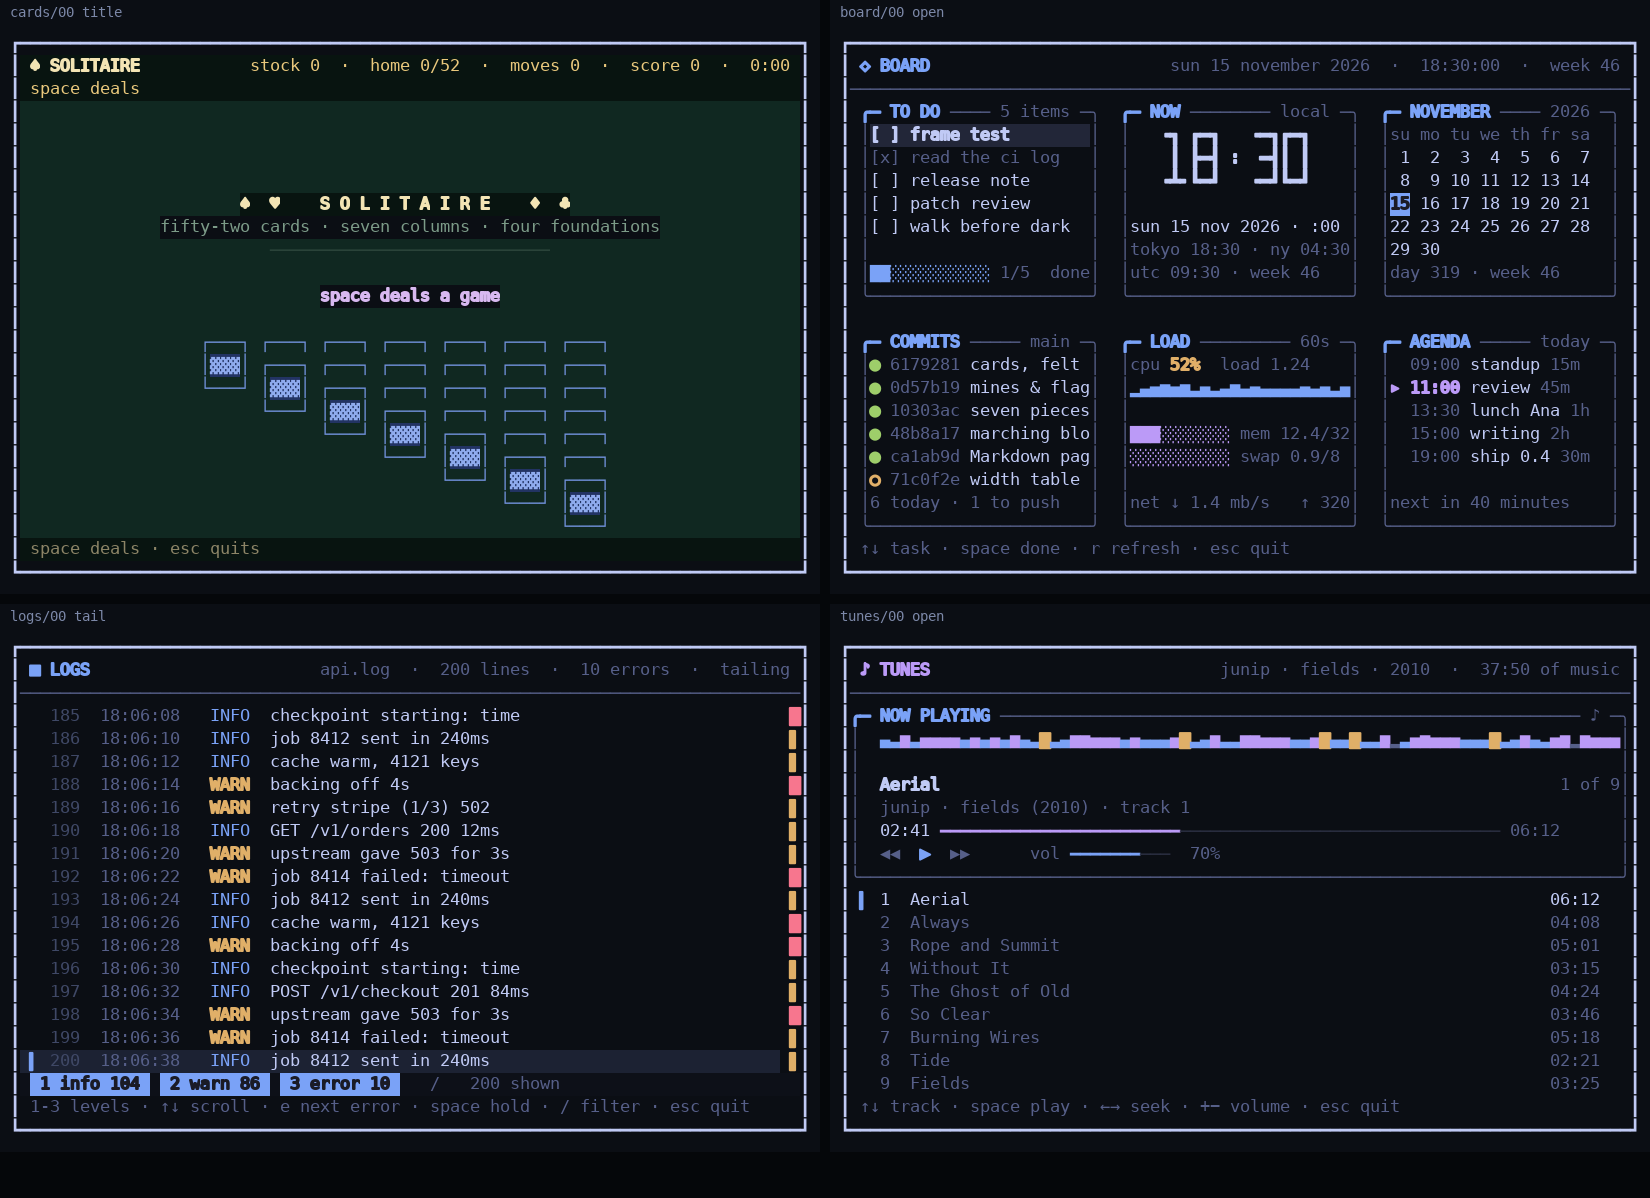
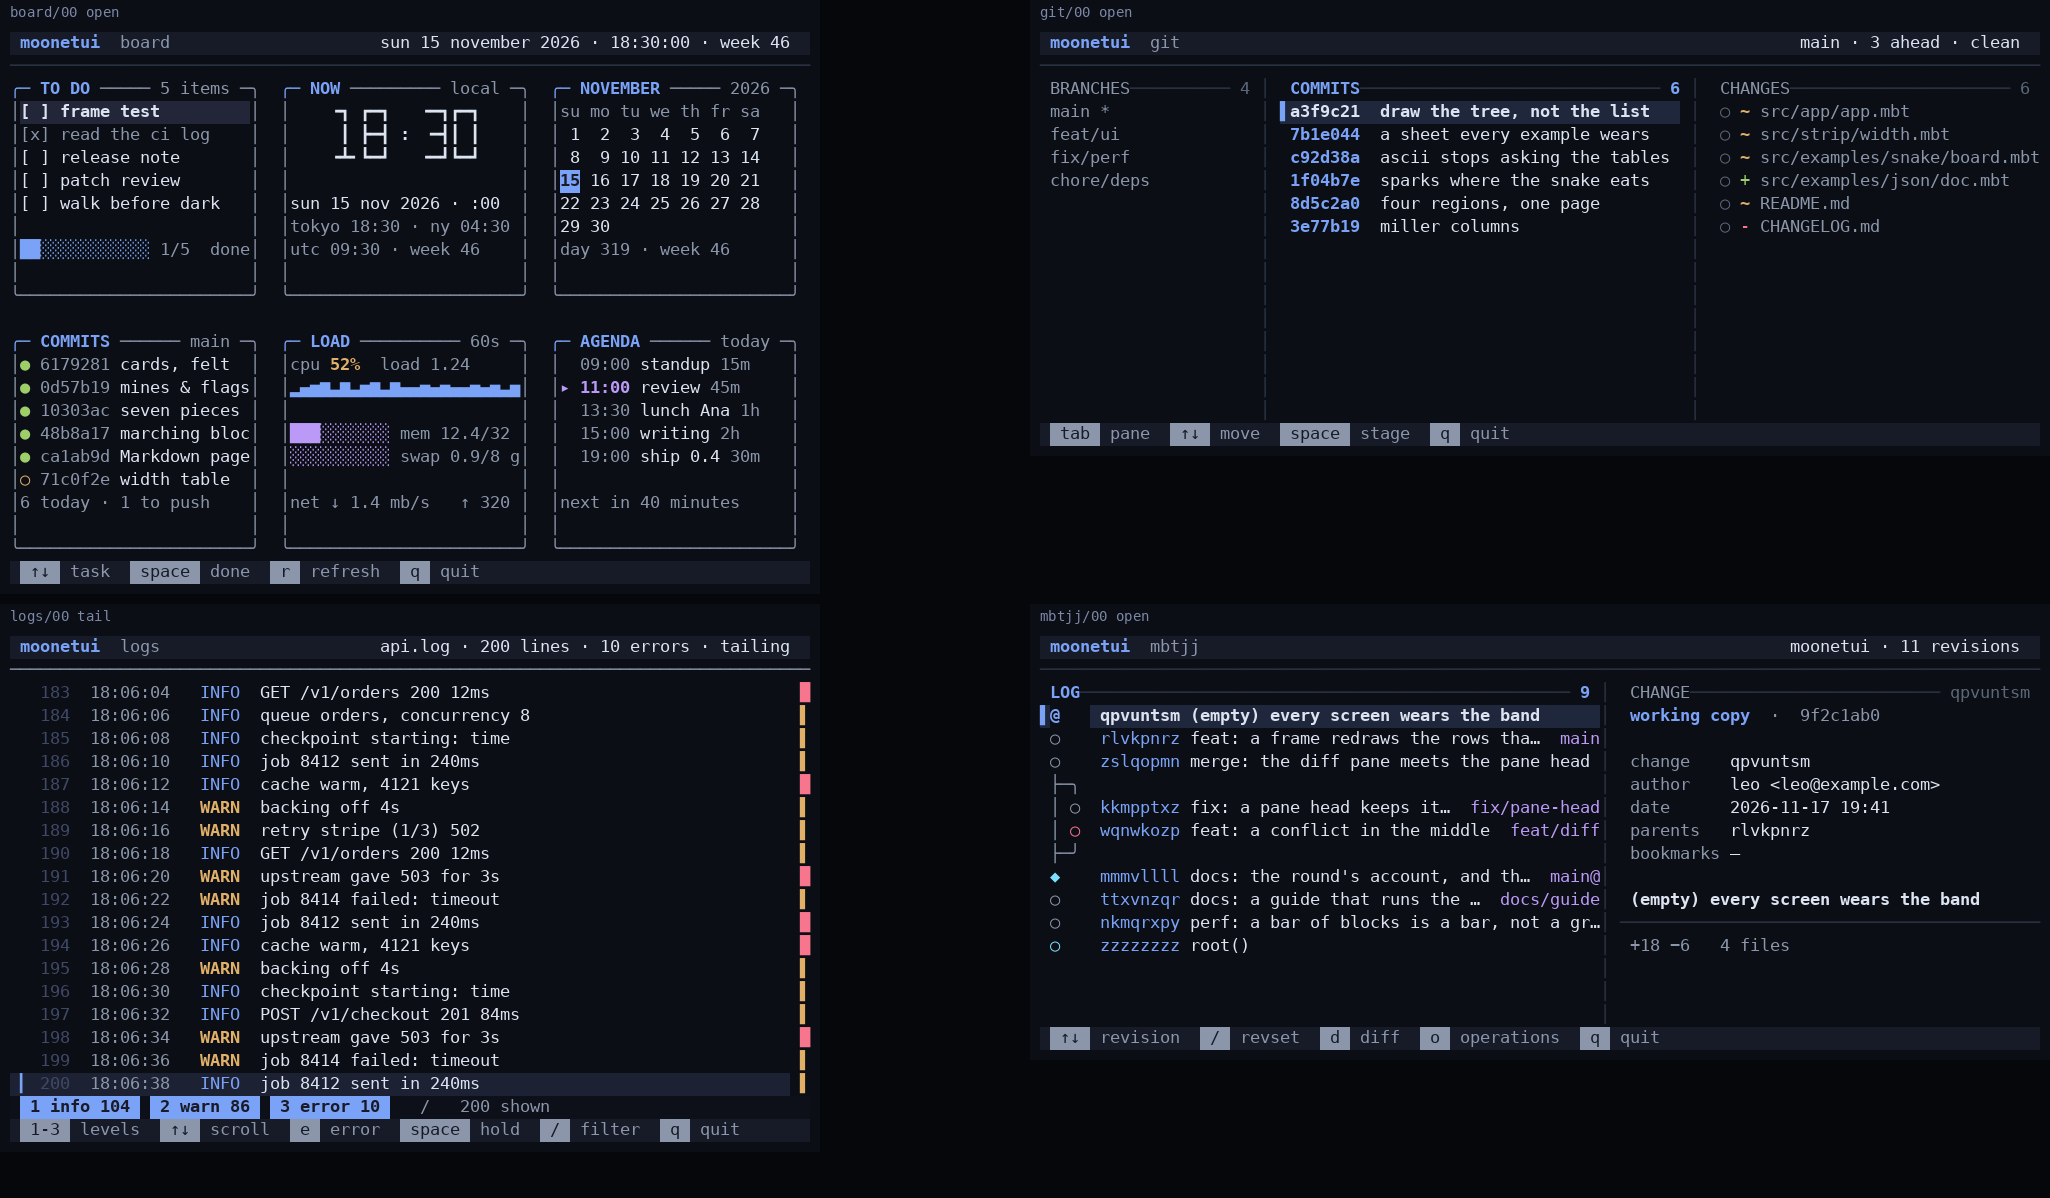
docs(moonetui): the new program, the runs a frame draws, and the picture of the examples.
The README lists `mbtjj` beside the other programs and shows four screenshots of
the shared look; the site's guide runs it, and its renderer cards and step list
now say what a partial frame does. The picture of the examples is redrawn from
the frames the tests announce. The CI job that hands every program's frames to
two terminal emulators takes `mbtjj` as well, and the skill has a section on
repainting part of a screen.

diff --git a/docs/index.html b/docs/index.html
@@ -76,7 +76,7 @@
 
   <div class="stats">
     <div class="stat"><div class="n">4</div><div class="l">backends · wasm, wasm-gc, js, native</div></div>
-    <div class="stat"><div class="n" data-count="tests">701</div><div class="l">tests per backend, all passing</div></div>
+    <div class="stat"><div class="n" data-count="tests">711</div><div class="l">tests per backend, all passing</div></div>
     <div class="stat"><div class="n" data-count="widgets">55</div><div class="l">widgets, from toggles to trees</div></div>
     <div class="stat"><div class="n">0</div><div class="l">dependencies · a single pure core</div></div>
   </div>
@@ -86,7 +86,7 @@
   <div class="grid">
     <div class="card"><div class="ic">⟳</div><h4>Synchronous by design</h4><p>No async, no event loop you can't see. The host drives one <code class="inline">step()</code>: poll, parse, dispatch, lay out, compose, diff, write.</p></div>
     <div class="card"><div class="ic">▚</div><h4>A real design system</h4><p>Selectors, specificity and cascade over name, id and class — the CSS model you already know, applied to the terminal.</p></div>
-    <div class="card"><div class="ic">⇄</div><h4>Differential renderer</h4><p>Two frames become only the spans that changed, then only the escape sequences needed — efficient on any wire.</p></div>
+    <div class="card"><div class="ic">⇄</div><h4>Differential renderer</h4><p>Two frames become only the runs of cells that changed, then only the escape sequences needed. A widget that moved its cursor redraws its own rows: the rest of the screen is left as it stands.</p></div>
     <div class="card"><div class="ic">⌗</div><h4>Unicode-honest</h4><p>A generated width table measures every line: CJK double width, emoji, combining marks. Padding is never a guess.</p></div>
     <div class="card"><div class="ic">▤</div><h4>Layout that adds up</h4><p>Fixed, percentage, auto and fractional sizes along an axis, plus a grid with spans and gutters — integer division that loses no column.</p></div>
     <div class="card"><div class="ic">✓</div><h4>Tested on four backends</h4><p>The same suite runs on wasm, wasm-gc, js and native, so a regression in one world fails loudly everywhere.</p></div>
@@ -130,6 +130,9 @@ moon run --target native src/examples/monitor
 
 <span class="cm"># the database client, in a real terminal, Unix or Windows</span>
 moon run --target native dbmux/src/main -- --demo
+
+<span class="cm"># a Jujutsu log: the graph, a change, a diff, and a revset typed key by key</span>
+moon run --target native src/examples/mbtjj/main
 
 <span class="cm"># under Node</span>
 moon run --target js src/examples/hello
@@ -178,8 +181,8 @@ w.handle(ctx, @widget.Msg::Key(@event.Key::of(Enter)))
     <li><strong>parse</strong> — <code class="inline">@input</code> turns the byte stream into events: CSI and SS3 sequences, modifiers, SGR mouse, bracketed paste, UTF-8 split across reads.</li>
     <li><strong>dispatch</strong> — the app walks the focus ring and hands each event to a widget; widgets answer with typed messages.</li>
     <li><strong>lay out</strong> — <code class="inline">@layout</code> and the design system place boxes along an axis or on the grid.</li>
-    <li><strong>compose</strong> — <code class="inline">@comp</code> turns placements into composed rows of styled cells.</li>
-    <li><strong>diff</strong> — consecutive screens become only the spans that changed.</li>
+    <li><strong>compose</strong> — <code class="inline">@comp</code> turns placements into composed rows of styled cells. A frame that only damaged part of the screen composes those rows, on the placements the last frame left behind.</li>
+    <li><strong>diff</strong> — consecutive screens become only the runs of cells that changed, each reached with one cursor move.</li>
     <li><strong>write</strong> — <code class="inline">@style</code> renders the changed styles as differential SGR sequences, and the driver writes them.</li>
   </ul>
 
@@ -2109,10 +2112,10 @@ priv <span class="kw">struct</span> Swatches {}
   <p class="lead">The same suite on four backends — a regression in one world fails loudly everywhere.</p>
 
   <div class="stats">
-    <div class="stat"><div class="n" data-count="tests">701</div><div class="l">wasm</div></div>
-    <div class="stat"><div class="n" data-count="tests">701</div><div class="l">wasm-gc</div></div>
-    <div class="stat"><div class="n" data-count="tests">701</div><div class="l">js</div></div>
-    <div class="stat"><div class="n" data-count="tests">701</div><div class="l">native</div></div>
+    <div class="stat"><div class="n" data-count="tests">711</div><div class="l">wasm</div></div>
+    <div class="stat"><div class="n" data-count="tests">711</div><div class="l">wasm-gc</div></div>
+    <div class="stat"><div class="n" data-count="tests">711</div><div class="l">js</div></div>
+    <div class="stat"><div class="n" data-count="tests">711</div><div class="l">native</div></div>
   </div>
 
   <h3>Run the suite</h3>
@@ -2145,7 +2148,7 @@ moon fmt &amp;&amp; moon info --target all   <span class="cm"># the diff must st
 <!-- generated:api -->
   <div class="api-tools">
     <input class="api-filter" type="search" placeholder="Filter by name, e.g. Button or render" aria-label="Filter the API">
-    <span class="api-count" data-total="1099">1099 entries</span>
+    <span class="api-count" data-total="1102">1102 entries</span>
   </div>
   <div class="api-index">
     <button type="button" data-pkg="api-geom">geom<span>43</span></button>
@@ -2155,10 +2158,10 @@ moon fmt &amp;&amp; moon info --target all   <span class="cm"># the diff must st
     <button type="button" data-pkg="api-event">event<span>12</span></button>
     <button type="button" data-pkg="api-input">input<span>6</span></button>
     <button type="button" data-pkg="api-vt">vt<span>12</span></button>
-    <button type="button" data-pkg="api-comp">comp<span>20</span></button>
+    <button type="button" data-pkg="api-comp">comp<span>21</span></button>
     <button type="button" data-pkg="api-design">design<span>56</span></button>
     <button type="button" data-pkg="api-widget">widget<span>740</span></button>
-    <button type="button" data-pkg="api-app">app<span>58</span></button>
+    <button type="button" data-pkg="api-app">app<span>60</span></button>
     <button type="button" data-pkg="api-driver">driver<span>28</span></button>
     <button type="button" data-pkg="api-driver-native">driver/native<span>11</span></button>
     <button type="button" data-pkg="api-driver-node">driver/node<span>10</span></button>
@@ -2791,6 +2794,12 @@ moon fmt &amp;&amp; moon info --target all   <span class="cm"># the diff must st
     <div class="api-item" data-q="comp diff">
       <h4><span class="api-kind fn">fn</span><code>diff</code></h4>
       <pre class="block"><span class="kw">pub</span> <span class="kw">fn</span> diff(Array[<span class="fn">@strip.</span>Strip], Array[<span class="fn">@strip.</span>Strip], base? : <span class="fn">@style.</span>Style) -&gt; Array[Span]</pre>
+      <p>The spans that turn one screen into the next: one per run of changed cells, so a row with two changes far apart is written as two short spans rather than as everything between them.</p>
+    </div>
+    <div class="api-item" data-q="comp diff_rows">
+      <h4><span class="api-kind fn">fn</span><code>diff_rows</code></h4>
+      <pre class="block"><span class="kw">pub</span> <span class="kw">fn</span> diff_rows(Array[<span class="fn">@strip.</span>Strip], Array[<span class="fn">@strip.</span>Strip], over? : Array[Int32], base? : <span class="fn">@style.</span>Style) -&gt; Array[Span]</pre>
+      <p><code>diff</code> over the rows named, for a frame that only redrew part of the screen: rows outside the list are taken as unchanged.</p>
     </div>
     <div class="api-item" data-q="comp encode">
       <h4><span class="api-kind fn">fn</span><code>encode</code></h4>
@@ -5177,11 +5186,16 @@ moon fmt &amp;&amp; moon info --target all   <span class="cm"># the diff must st
   screens : Array[Screen]
   <span class="kw">mut</span> anims : Map[Int32, Anim]
   <span class="kw">mut</span> prev_bare : Map[Int32, <span class="fn">@geom.</span>Region]
+  <span class="kw">mut</span> prev_rects : Map[Int32, <span class="fn">@geom.</span>Region]
   <span class="kw">mut</span> size : <span class="fn">@geom.</span>Size
   <span class="kw">mut</span> focus : Int32
   <span class="kw">mut</span> hover : Int32
   off : Array[Int32]
   <span class="kw">mut</span> prev : Array[<span class="fn">@strip.</span>Strip]
+  <span class="kw">mut</span> scene : <span class="fn">@comp.</span>Scene
+  damage : Array[Int32]
+  <span class="kw">mut</span> wiped : Bool
+  <span class="kw">mut</span> layout : Bool
   <span class="kw">mut</span> dirty : Bool
   <span class="kw">mut</span> running : Bool
   <span class="kw">mut</span> last_frame : Int32
@@ -5207,7 +5221,9 @@ moon fmt &amp;&amp; moon info --target all   <span class="cm"># the diff must st
         <div class="api-method" data-q="push_screen"><pre class="block"><span class="kw">pub</span> <span class="kw">fn</span>[D] App::push_screen(Self[D], Node) -&gt; Unit</pre><p>Cover the screen with a new tree: the one showing, and where its focus sits, is pushed down and comes back when popped.</p></div>
         <div class="api-method" data-q="quit"><pre class="block"><span class="kw">pub</span> <span class="kw">fn</span>[D] App::quit(Self[D]) -&gt; Unit</pre></div>
         <div class="api-method" data-q="rect_of"><pre class="block"><span class="kw">pub</span> <span class="kw">fn</span>[D] App::rect_of(Self[D], Int32) -&gt; <span class="fn">@geom.</span>Region</pre></div>
-        <div class="api-method" data-q="refresh"><pre class="block"><span class="kw">pub</span> <span class="kw">fn</span>[D] App::refresh(Self[D]) -&gt; Unit</pre></div>
+        <div class="api-method" data-q="refresh"><pre class="block"><span class="kw">pub</span> <span class="kw">fn</span>[D] App::refresh(Self[D]) -&gt; Unit</pre><p>Draw the next frame whole. A host calls this after changing a widget behind its back; a widget that answers a key asks for its own rows instead.</p></div>
+        <div class="api-method" data-q="repaint"><pre class="block"><span class="kw">pub</span> <span class="kw">fn</span>[D] App::repaint(Self[D], Int32) -&gt; Unit</pre><p>Compose again the rows the node sits on, on the placements the last frame left behind. This is the cheap frame: a list that moved its cursor redraws its own rows and leaves the rest of the screen as it stands.</p></div>
+        <div class="api-method" data-q="repaint_region"><pre class="block"><span class="kw">pub</span> <span class="kw">fn</span>[D] App::repaint_region(Self[D], <span class="fn">@geom.</span>Region) -&gt; Unit</pre><p>Compose again the rows a part of the screen covers, for a host that has no node to name.</p></div>
         <div class="api-method" data-q="run"><pre class="block"><span class="kw">pub</span> <span class="kw">fn</span>[D : <span class="fn">@driver.</span>Driver] App::run(Self[D]) -&gt; Unit <span class="kw">raise</span></pre></div>
         <div class="api-method" data-q="screen"><pre class="block"><span class="kw">pub</span> <span class="kw">fn</span>[D] App::screen(Self[D]) -&gt; Array[String]</pre></div>
         <div class="api-method" data-q="screen_depth"><pre class="block"><span class="kw">pub</span> <span class="kw">fn</span>[D] App::screen_depth(Self[D]) -&gt; Int32</pre></div>

diff --git a/README.md b/README.md
@@ -16,7 +16,7 @@ Cell buffer · differential ANSI renderer · incremental key parser · layout ·
 </p>
 
 <p>
-<img src="docs/assets/examples.png" alt="Four of the examples as they render: the Klondike table on green felt, a board of six framed panels with a segment numeral clock reading eighteen thirty, a log tail with a map of the whole file down its edge, and a player with a spectrum and the album under it." width="880">
+<img src="docs/assets/examples.png" alt="Four of the examples as they render, each with the title band and key bar they share: a board of six framed panels with a segment numeral clock reading eighteen thirty, a repository in three panes with the row under the cursor lifted, a log tail with a map of the whole file down its edge, and a Jujutsu log with its graph, the change under the cursor and a revset." width="880">
 </p>
 
 [Documentation, with every widget running live](https://moonbitstack.github.io/moonetui/) · [Report an issue](https://github.com/moonbitstack/moonetui/issues)
@@ -28,7 +28,7 @@ Cell buffer · differential ANSI renderer · incremental key parser · layout ·
 | | |
 |:--|:--|
 | **Synchronous core** | No async and no hidden event loop. The host calls one `step()`: poll, parse, dispatch, lay out, compose, diff, write. |
-| **Differential renderer** | Two frames become the spans that changed, and only the escape sequences needed to draw them. |
+| **Differential renderer** | Two frames become the runs of cells that changed, and only the escape sequences needed to draw them. A widget that moved its cursor redraws its own rows and leaves the rest of the screen standing. |
 | **A CSS-like design system** | Selectors over name, id, class and `:focus`, `:hover`, `:disabled`, stacked by specificity and cascade, with inheritance, borders, padding, margins, docks, grid spans and transitions. |
 | **Unicode-aware** | Every line is measured in terminal columns over a generated width table: wide CJK, double-width emoji, combining marks. |
 | **Four backends** | The same code and the same test suite on wasm, wasm-gc, js and native. |
@@ -65,6 +65,7 @@ moon run --target native src/examples/drift/main    # a trader on six ports, wit
 moon run --target native src/examples/mon/main      # a route, a party, a wild thing in the grass
 moon run --target native src/examples/logs/main     # a tail, a level filter, a typed query
 moon run --target native src/examples/json/main     # a document as a tree: a path, folds, a query
+moon run --target native src/examples/mbtjj/main    # a Jujutsu log: a graph, a change, a revset
 moon run --target js src/examples/hello         # under Node
 moon run --target native src/examples/uart      # whole frames of plain text, as a serial line gets them
 moon run --target native dbmux/src/main -- --demo   # a database client, with a SQLite demo database
@@ -177,6 +178,7 @@ Each one has its keyboard contract, message shape and tests, and a live demo on 
 | `examples/mon` | A route to walk, a party of three, and fights in the tall grass |
 | `examples/logs` | A log tail: levels to switch off, a typed filter, a map of the file |
 | `examples/json` | A document as a tree beside the node it holds, its path, a typed query |
+| `examples/mbtjj` | A Jujutsu log: the graph, the change under the cursor, its diff, a revset typed key by key |
 
 ## Standards
 
@@ -193,7 +195,7 @@ moon test  --target all
 moon fmt && moon info --target all     # the diff must stay clean
 ```
 
-701 tests per backend, the same suite on wasm, wasm-gc, js and native, run on Ubuntu, macOS and Windows in CI. Every widget asserts the rows it draws, and every demo draws in a headless application.
+711 tests per backend, the same suite on wasm, wasm-gc, js and native, run on Ubuntu, macOS and Windows in CI. Every widget asserts the rows it draws, and every demo draws in a headless application.
 
 ## Conformance
 

diff --git a/docs/skills/moonetui/SKILL.md b/docs/skills/moonetui/SKILL.md
@@ -97,6 +97,21 @@ state.select(0, 2) |> ignore
 assert_eq(list.state().selected(), 0)
 ```
 
+## Redraw only what moved
+
+A frame that changes one widget's state composes that widget's rows and leaves
+the rest of the screen as it stands; a change that restyles or moves the tree
+places it again and redraws the rows its nodes left and the rows they landed on.
+The host only has to say what changed.
+
+```moonbit
+ui.repaint(1)  // the rows the node sits on
+ignore(ui.step())
+assert_eq(ui.screen().length(), 3)
+ui.refresh()   // the whole frame, after a change the host made behind the widget
+ignore(ui.step())
+```
+
 ## Rules that catch people out
 
 - Only the focused widget is offered a key. A widget that moves a choice
